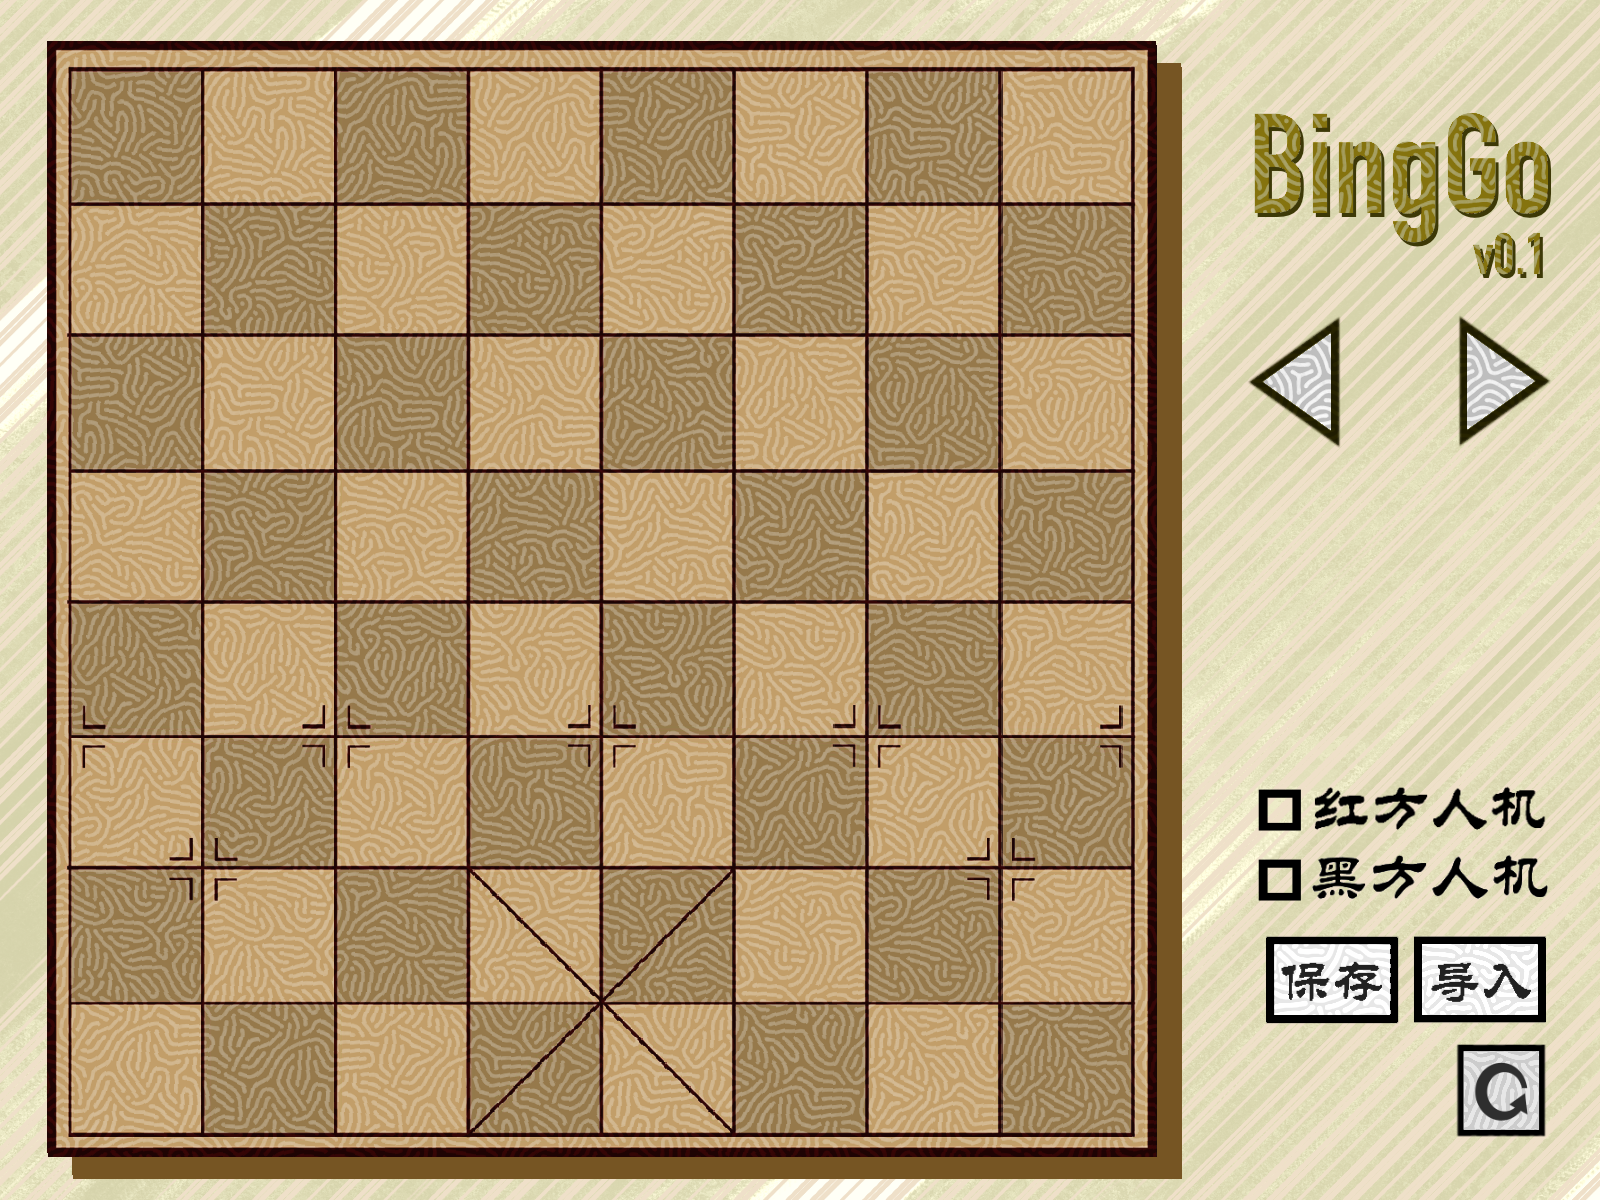
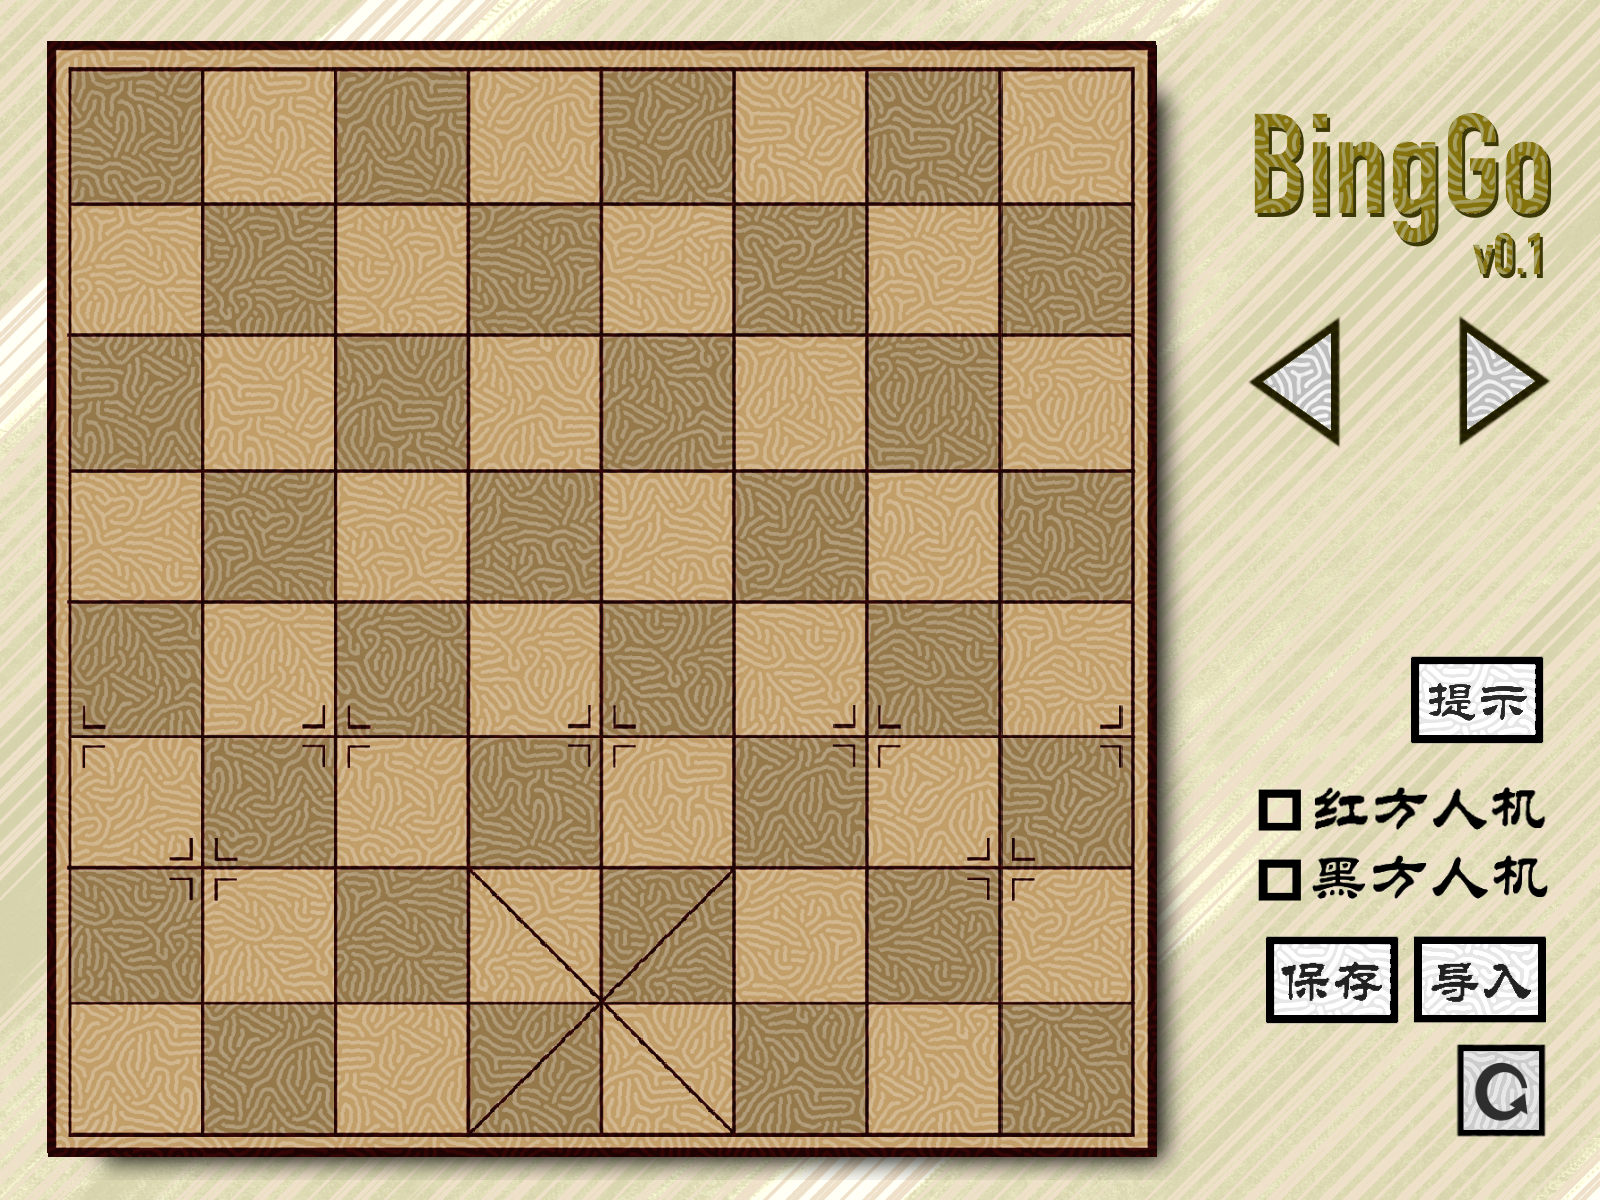
update

Changed region(s): [[0.0312, 0.0308, 0.75, 0.9867], [0.875, 0.5242, 0.9688, 0.6475]]

diff --git a/display.py b/display.py
@@ -100,7 +100,7 @@ class WarScreen(FloatLayout):
 
     def add_label(self, text):
         self.hints.append(Image(source=f'./img/{text}.png', size_hint=(None, None),
-                                size=("200dp", "200dp"), pos_hint={'center_x': 0.87, 'center_y': 0.4}))
+                                size=("200dp", "200dp"), pos_hint={'center_x': 0.87, 'center_y': 0.515}))
         self.add_widget(self.hints[-1])
 
     def remove_label(self):
@@ -234,8 +234,8 @@ class WarScreen(FloatLayout):
         # prepare
         for i in range(len(opers)):
             oper = opers[i]
-            if oper[0] == 0:
-                an.append((0, self.beach[oper[1]].idt, oper[2]))
+            if oper[0] == 0 or oper[0] == 4:
+                an.append((oper[0], self.beach[oper[1]].idt, oper[2]))
                 self.beach.move_son(pfrom=oper[1], pto=oper[2])
             elif oper[0] == 1:
                 idt = len(self.pieces)
@@ -253,12 +253,14 @@ class WarScreen(FloatLayout):
             if a[0] == 0:
                 if i == 1 and an[0][0] == 0:  # 非法操作回退动画延迟
                     k00 = a[:]
-                    Clock.schedule_once(lambda dt:self._move_animation(idt=k00[1], p=k00[2]), 0.175)
+                    Clock.schedule_once(lambda dt: self._move_animation(idt=k00[1], p=k00[2]), 0.15)
                 elif i == 2:  # 逆升变动画延迟
                     k01 = a[:]
-                    Clock.schedule_once(lambda dt:self._move_animation(idt=k01[1], p=k01[2]), 0.1)
+                    Clock.schedule_once(lambda dt: self._move_animation(idt=k01[1], p=k01[2]), 0.1)
                 else:
                     self._move_animation(idt=a[1], p=a[2])
+            elif a[0] == 4:
+                self._move_animation(idt=a[1], p=a[2])
             elif a[0] == 1:
                 if i == 2 or i == 3:  # 升变动画延迟
                     k10 = self.imgs[a[1]]
@@ -353,21 +355,11 @@ class WarScreen(FloatLayout):
                 # 撤回
                 if 1268 < x < 1332:
                     self.regret()
-                # 自动提示
-                elif 1342 < x < 1462:
-                    moves = self.war.ai_move()
-                    # self.display_operation(moves)
-
-                    # if self.mycamp_intl:
-                    #     self.ai.get_possible_moves_Intl()
-                    # else:
-                    #     self.ai.get_possible_moves_Chn()
-                    # self._promotion(target(*self.ai.best_move))
-                    # self.ラウンドを終える()
-                    # print("!!!!!!!!!!!!!!!!!!!!!!!!!!!!!!!!!!!!!!",self.ai.value)
                 # 重做
                 elif 1476 < x < 1536:
                     self.gret()
+            elif 705*2 < x < 770*2 and 230*2 < y < 270*2:
+                self.war.ai_move()
             # 新局
             elif 1458 < x < 1542 and 70 < y < 152:
                 self.new()
@@ -395,6 +387,7 @@ class WarScreen(FloatLayout):
                     else:
                         self.war.auto_chn = True
                         self.add_widget(self.auto_chn_img)
+                self.war.ai_continue()
 
 
 class BingGo(App):

diff --git a/war.py b/war.py
@@ -34,23 +34,26 @@ class War:
 
     def main(self, p: int, castle=False):
         """将当前棋子移向位置p"""
-        if castle:  # TODO
+        moves = []
+        if castle:
             if p == 0:
-                return [(0, 0, 2), (0, 3, 1)]
+                moves.append((4, 0, 2))
+                moves.append((4, 3, 1))
             elif p == 8:
-                return [(0, 8, 4), (0, 3, 5)]
+                moves.append((4, 8, 4))
+                moves.append((4, 3, 5))
             else:
                 raise ValueError("!Wrong p when castling. Received p: " + str(p))
-        moves = []
-        if self.beach[p] is not None:
-            moves.append((2, self.beach[p].typ, p))
-        moves.append((0, self.active_qizi.p, p))
-        if self.active_qizi.typ == 13 and 79 < p < 89:  # ♟->♛
-            moves.append((2, self.active_qizi.typ, p))
-            moves.append((1, 11, p))
-        elif self.active_qizi.typ == 7 and 0 <= p < 9:  # 兵 -> 将
-            moves.append((2, self.active_qizi.typ, p))
-            moves.append((1, 0, p))
+        else:
+            if self.beach[p] is not None:
+                moves.append((2, self.beach[p].typ, p))
+            moves.append((0, self.active_qizi.p, p))
+            if self.active_qizi.typ == 13 and 79 < p < 89:  # ♟->♛
+                moves.append((2, self.active_qizi.typ, p))
+                moves.append((1, 11, p))
+            elif self.active_qizi.typ == 7 and 0 <= p < 9:  # 兵 -> 将
+                moves.append((2, self.active_qizi.typ, p))
+                moves.append((1, 0, p))
 
         self.display.remove_path()
         # self.display.show_path()
@@ -73,7 +76,7 @@ class War:
             self.active_qizi = None
 
         self.display.generate_animation(moves)
-        Clock.schedule_once(lambda dt: self.ai_continue(), timeout=0.1)
+        Clock.schedule_once(lambda dt: self.ai_continue(), timeout=0.25)
 
     def ai_move(self):
         if self.ai.shuai_is_checkmate() or self.ai.king_is_checkmate():
